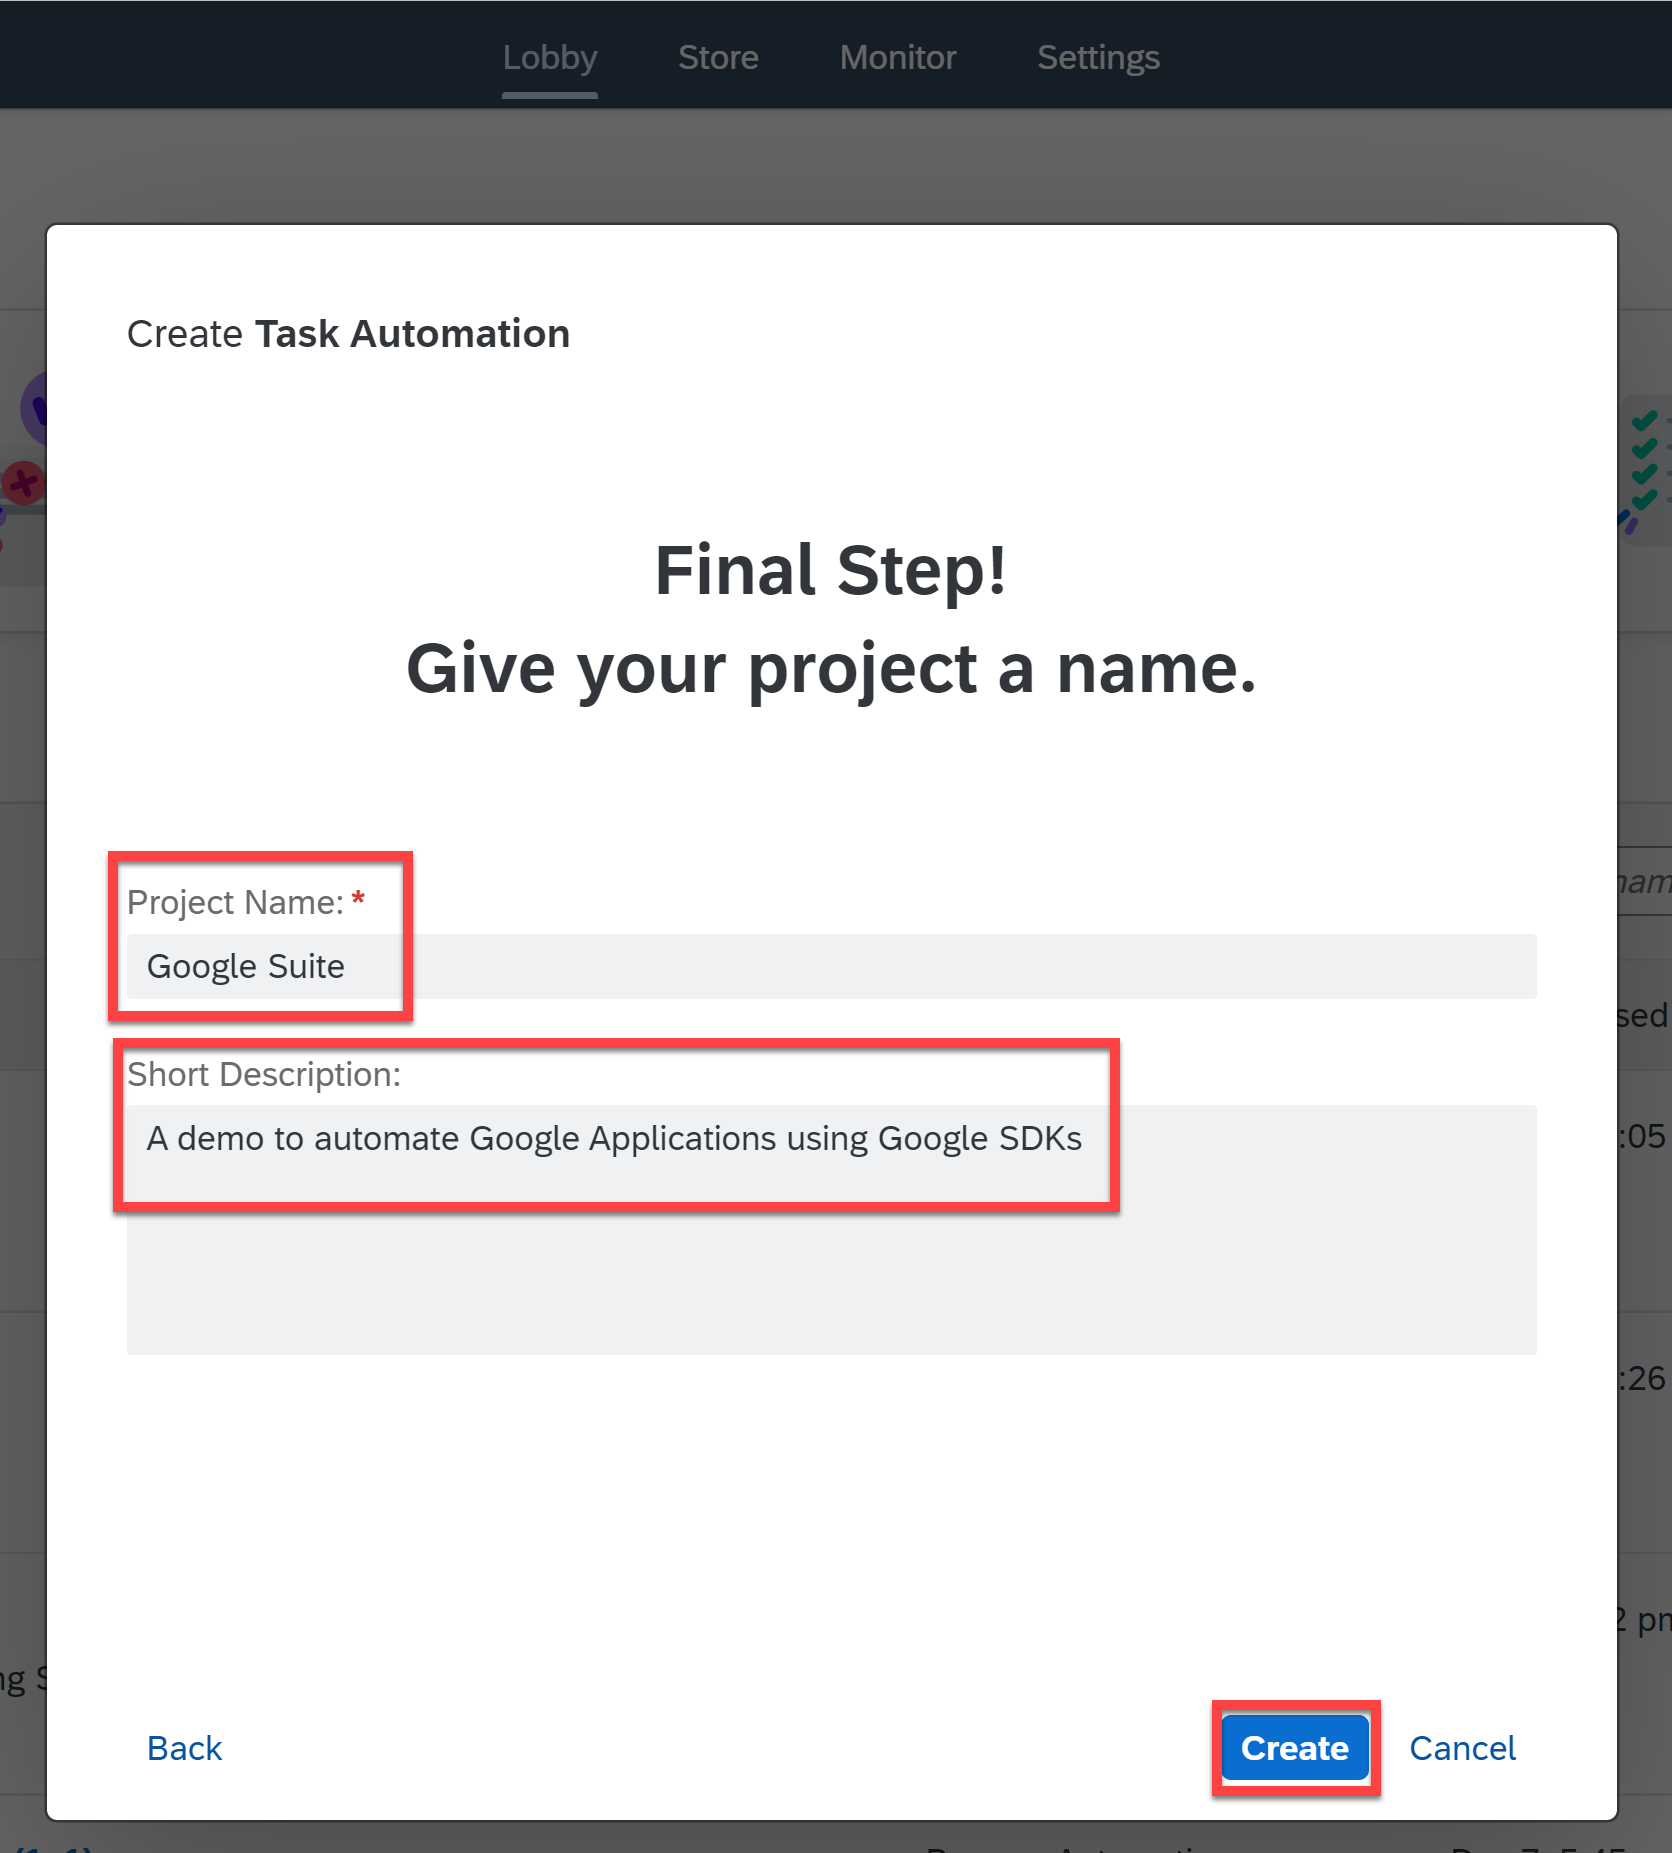
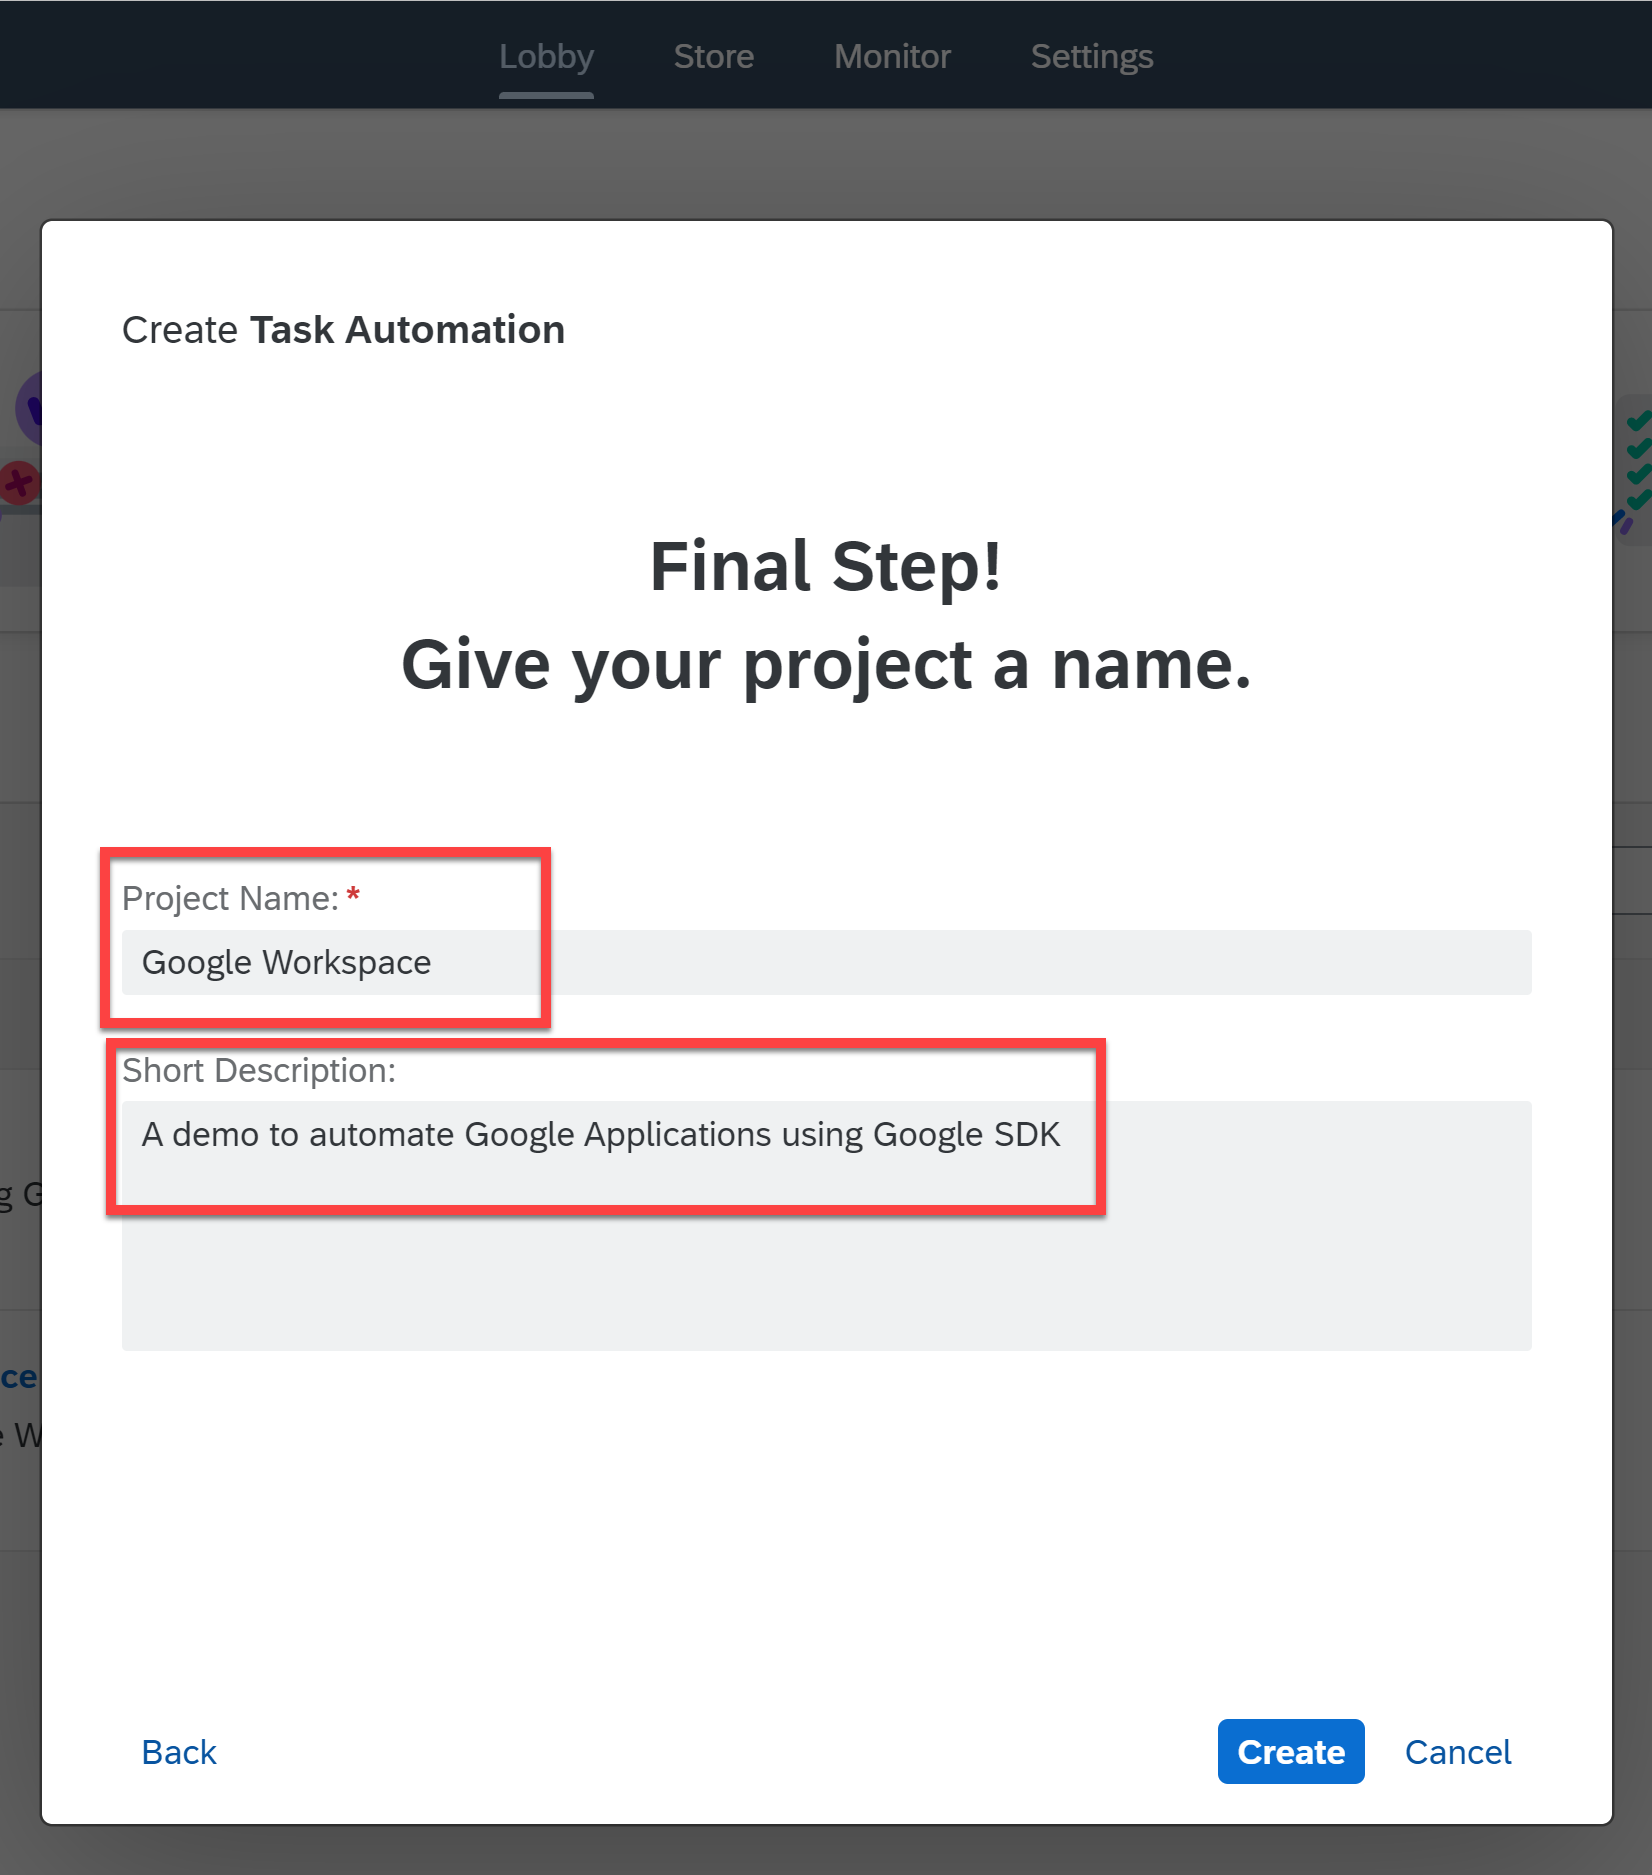
feedback

diff --git a/tutorials/spa-authorize-google-sdk/spa-authorize-google-sdk.md b/tutorials/spa-authorize-google-sdk/spa-authorize-google-sdk.md
@@ -20,7 +20,7 @@ primary_tag: software-product>sap-build-process-automation
  - How to use the authorization mechanisms supported by the Google Authorization SDK
 
 ## Intro
-SAP Build Process Automation enables users to automate Google Workspace products such as Gmail, Google Drive, Google Sheets, Google Docs, Google Calendar and other services such as Google Cloud Storage, Document AI and Vision AI. In order to automate Google workspace products, you have to be authorized. There are three authorization mechanisms that Google supports:
+SAP Build Process Automation enables users to automate Google Workspace products such as Gmail, Google Drive, Google Sheets, Google Docs, Google Calendar and other services such as Google Cloud Storage, Document AI and Vision AI. Any company which is using Google Workspace instead of MS Office products, can use the Google Workspace SDK to automate the workspace products. In order to automate Google workspace products, you have to be authorized. There are three authorization mechanisms that Google supports:
 
 - Service Account
 - oAuth
@@ -51,7 +51,7 @@ Before you can authorize Google applications, you will need to create an automat
 
     <!-- border -->![Task Automation](02a.png)
 
-4. In the **Create Task Automation** window, enter the name: **Google Suite**  and as a description: **A demo to automate Google Applications using Google SDK**.
+4. In the **Create Task Automation** window, enter the name: **Google Workspace**  and as a description: **A demo to automate Google Applications using Google SDK**.
 
 5. Choose **Create**.
 
@@ -148,7 +148,7 @@ After successful completion of setting the Service Account as mentioned in the p
 
 ### Use the service account activity
 
-The Authorize Google (Service Account) activity is used to authorize using service account and the same activity is supported on Desktop Agent 2.0 and Desktop Agent 3.0. Once the activity executes successfully, the bot is authorized to execute any subsequent google activities.
+The Authorize Google (Service Account) activity is used to authorize using service account and the same activity is supported on Desktop Agent 2.0 and Desktop Agent 3.0. Once the activity executes successfully, the bot is authorized to execute any subsequent Google activities.
 
 The Bot using Service Account Authorization doesn't require any human intervention such as providing the user consent or credentials. Hence this will be a suitable choice for unattended scenarios.
 
@@ -200,4 +200,8 @@ You can test if the Google Authorization has been set up correctly.
 
     <!-- border -->![Test result](17.png)
 
-    Now that you have set the Authorize activity, you may add Google Workspace SDK to automate google applications such as google drive, Gmail and google sheet. Once you are done building your automation, you may use the Disconnect activity at the end of the automation.
+    Now that you have set the Authorize activity, you may add Google Workspace SDK to automate Google applications such as Google Drive, Gmail, Google Docs, Google Sheets and Google Slides. Once you are done building your automation, you may use the Disconnect activity at the end of the automation.
+
+    > Please note that all the Google Workspace activities also work with Agent 2.0.
+
+

diff --git a/tutorials/spa-use-google-workspace-gmail/spa-use-google-workspace-gmail.md b/tutorials/spa-use-google-workspace-gmail/spa-use-google-workspace-gmail.md
@@ -207,7 +207,7 @@ You will add two input parameters.
 
 2. Fill in the **Input parameters**:
     - For `searchSubject`: the subject of the email you want to search in Gmail
-    - For `serachFrom`: the email you want to search in Gmail
+    - For `searchFrom`: the email you want to search in Gmail
 
 3. Fill in the **Environment Variables**:
     - For `userEmail`: your Gmail user email
@@ -223,5 +223,5 @@ You will add two input parameters.
 
     After searching in Gmail for the email(s), the automation will read the email(s) found, store the attachment(s) if any in your Drive and send a reply to a specified recipient from your gmail account.
 
-    <!-- border -->![Test result](20.png)
+    <!-- border -->![Test result](21.png)
 ---
